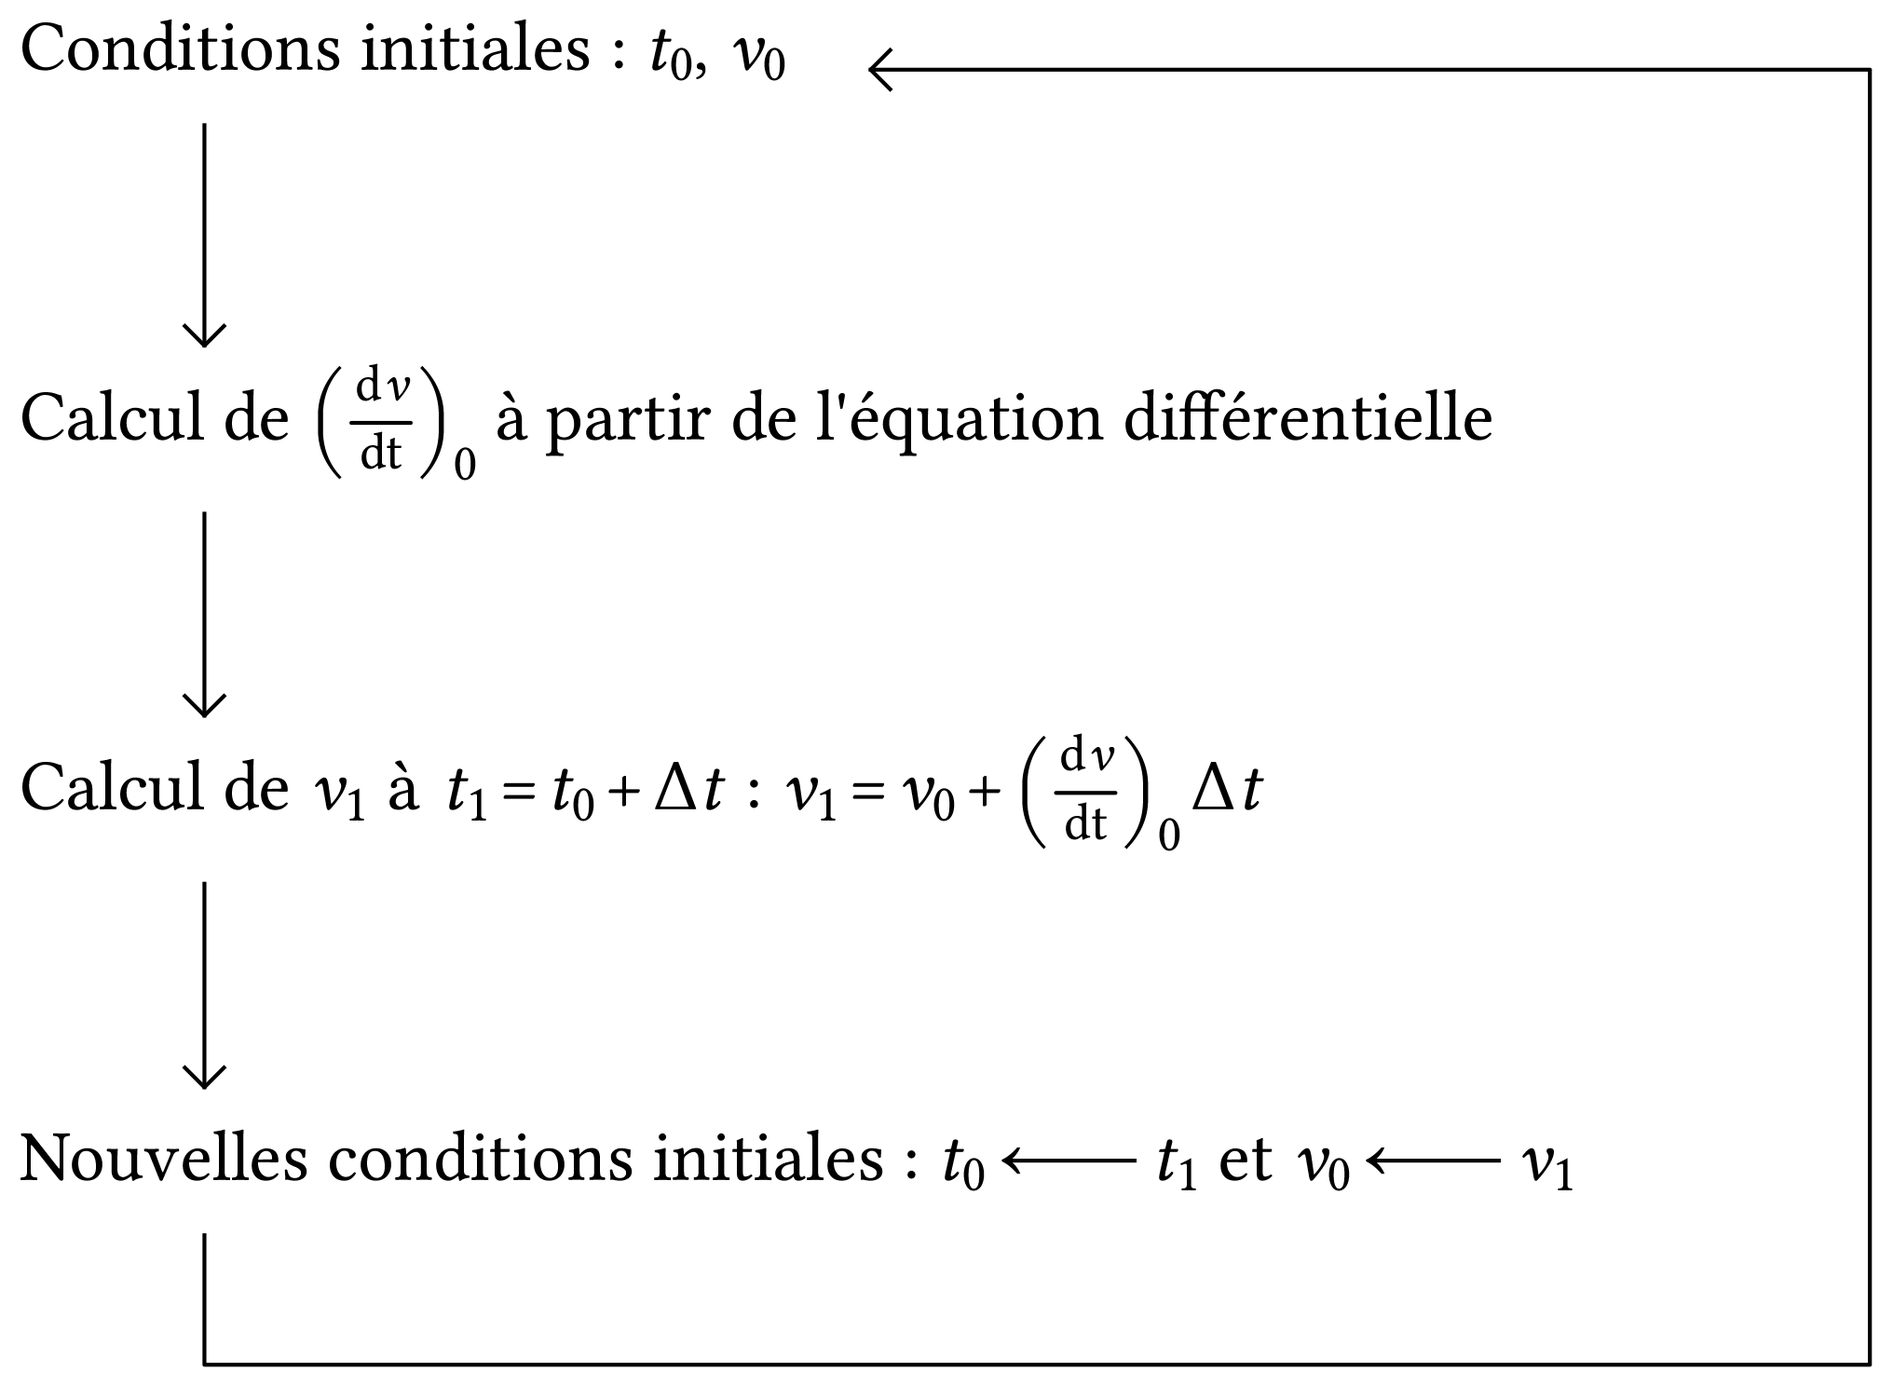
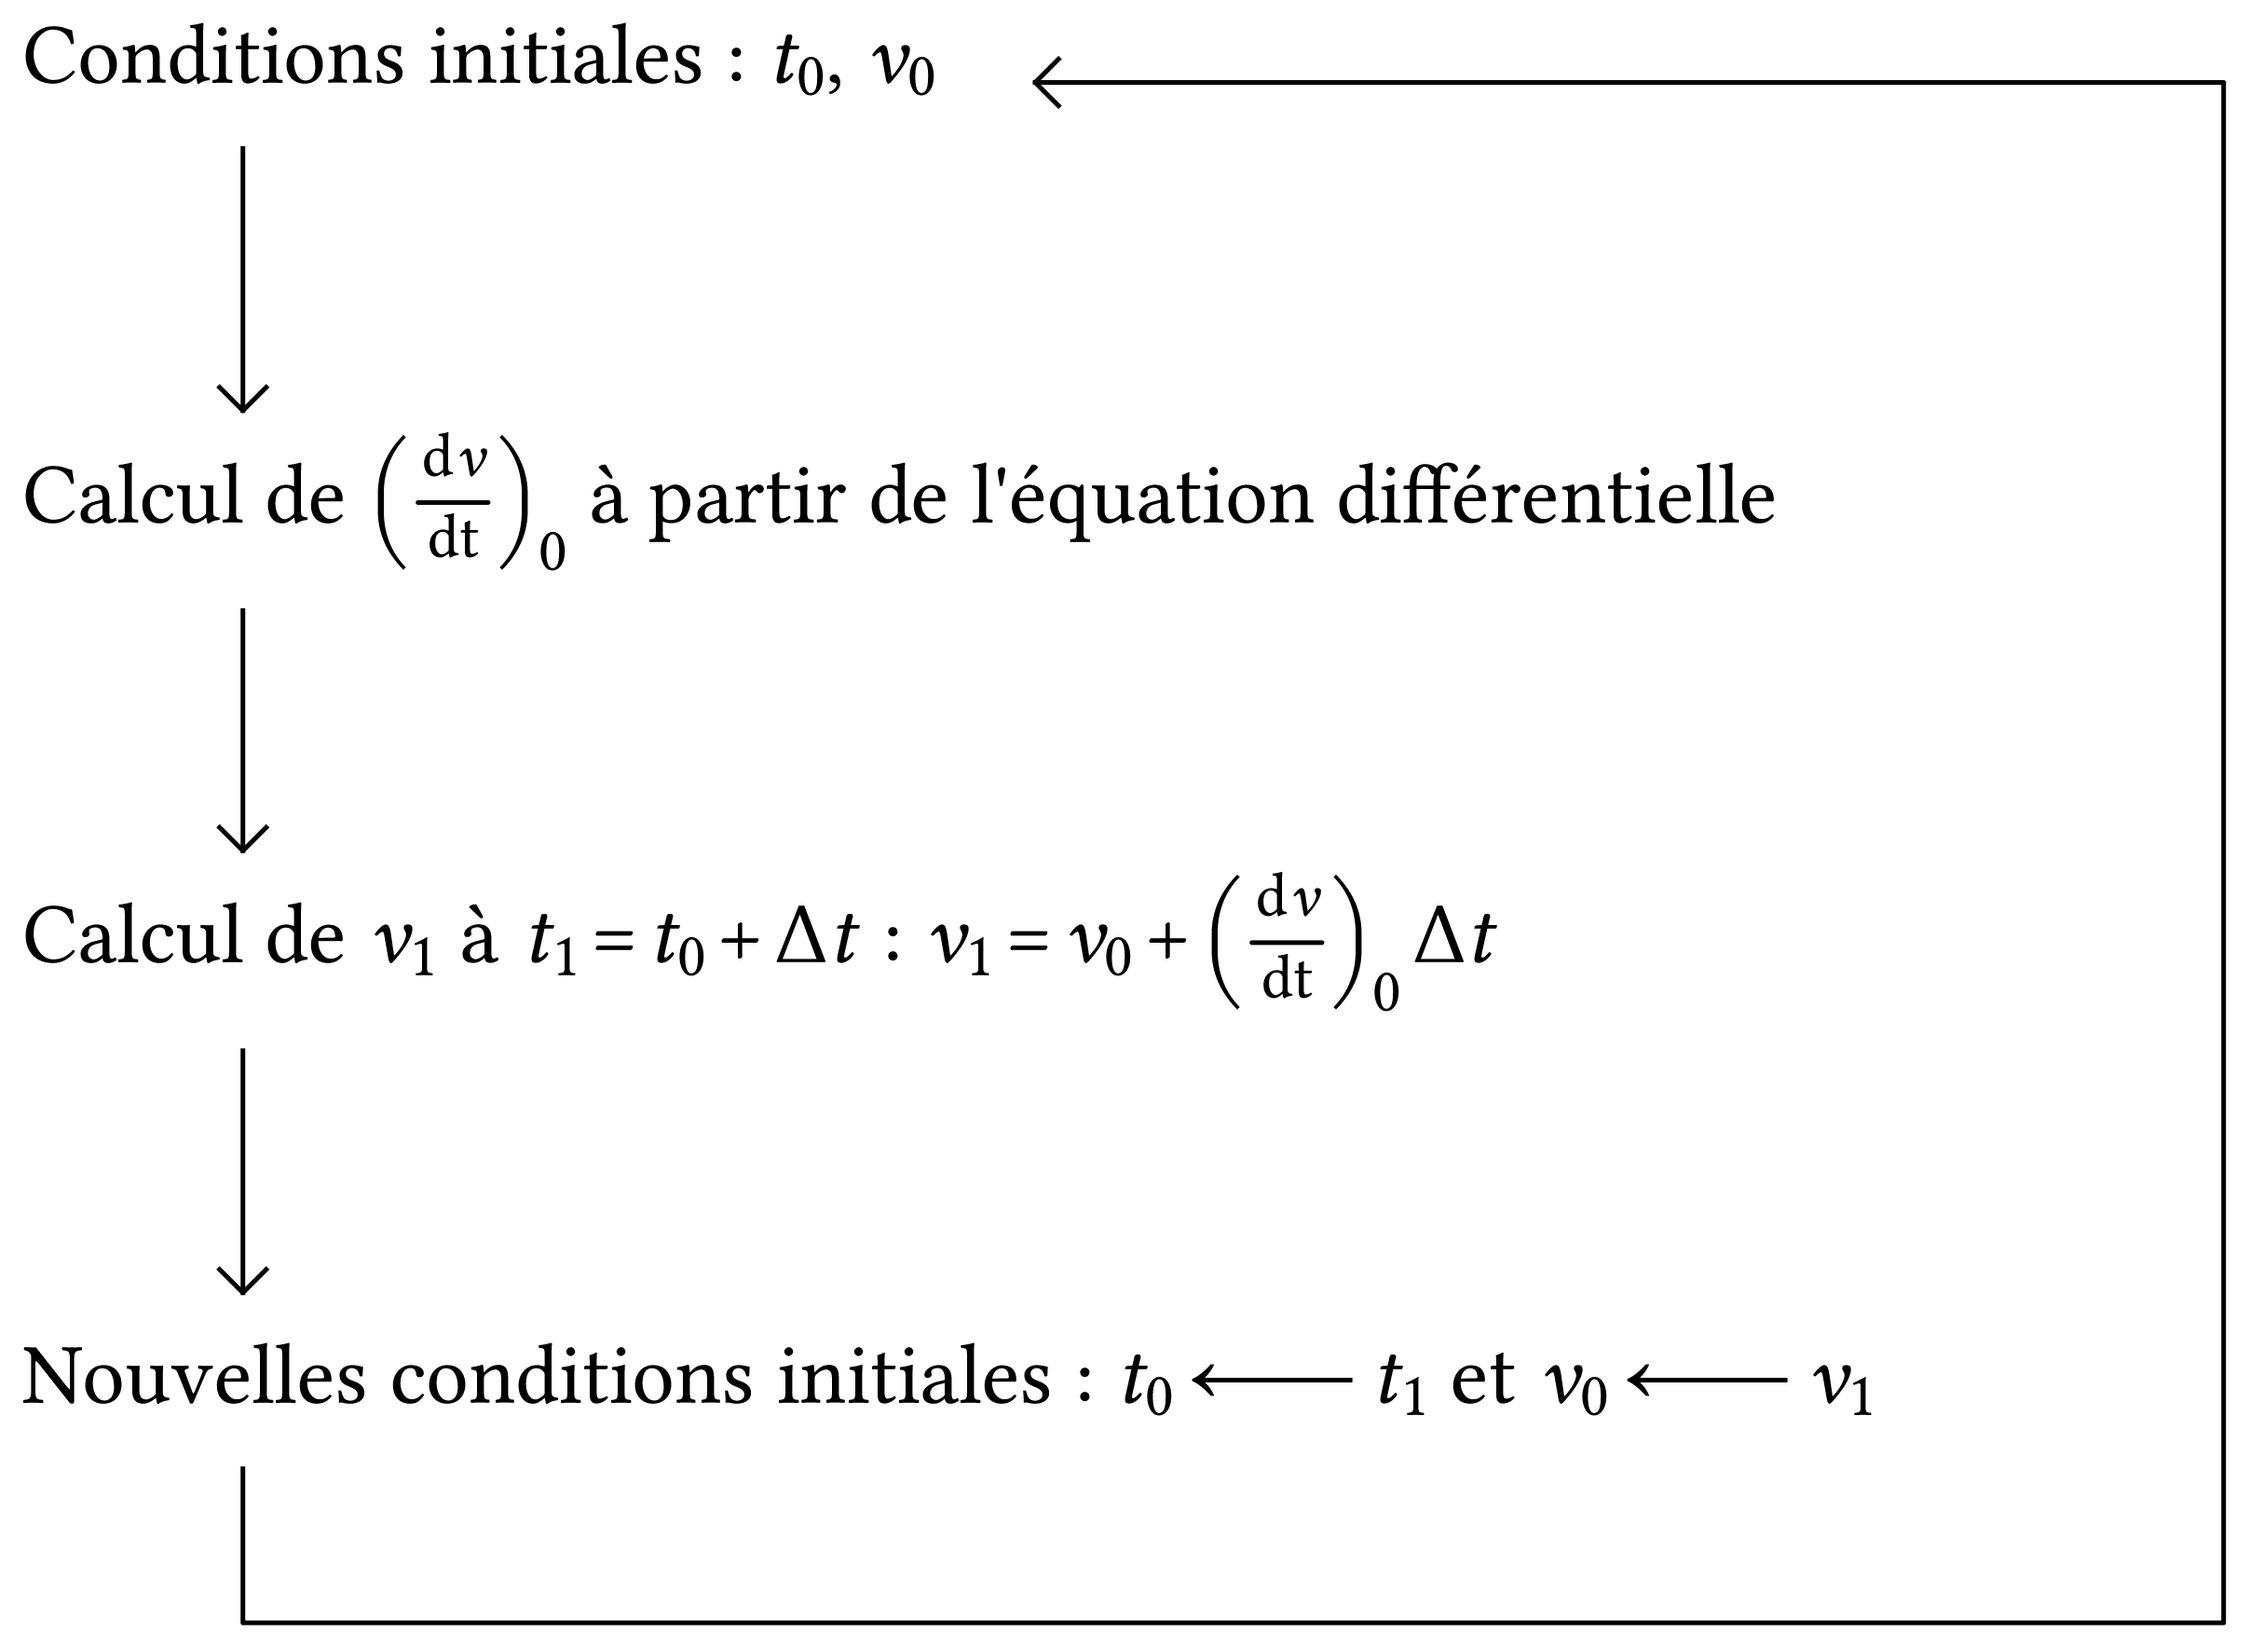
rebuilding site Lun 31 mai 2021 12:33:54 +04

diff --git a/terminales-pc/chap-20/chap-20-1/chap-20-1-ludion.html b/terminales-pc/chap-20/chap-20-1/chap-20-1-ludion.html
@@ -317,7 +317,7 @@
     </div></font>
     <font color="black"><div class="ornament" style="background-color:#f7f2e0;border-width:0px;border-radius:15px">
       <p>
-        <img src="chap-20-1-ludion-48.png" style="margin-left: -0.0244976076555024em; margin-bottom: 0em; margin-right: -0.0244976076555012em; margin-top: 0em; vertical-align: -7.56153110047847em; height: 18.2041148325359em"></img>
+        <img src="chap-20-1-ludion-48.png" style="margin-left: -0.0244976076555024em; margin-bottom: 0em; margin-right: -0.0244976076555012em; margin-top: 0em; vertical-align: -8.99267942583732em; height: 21.6443540669856em"></img>
       </p>
     </div></font>
     <p>
